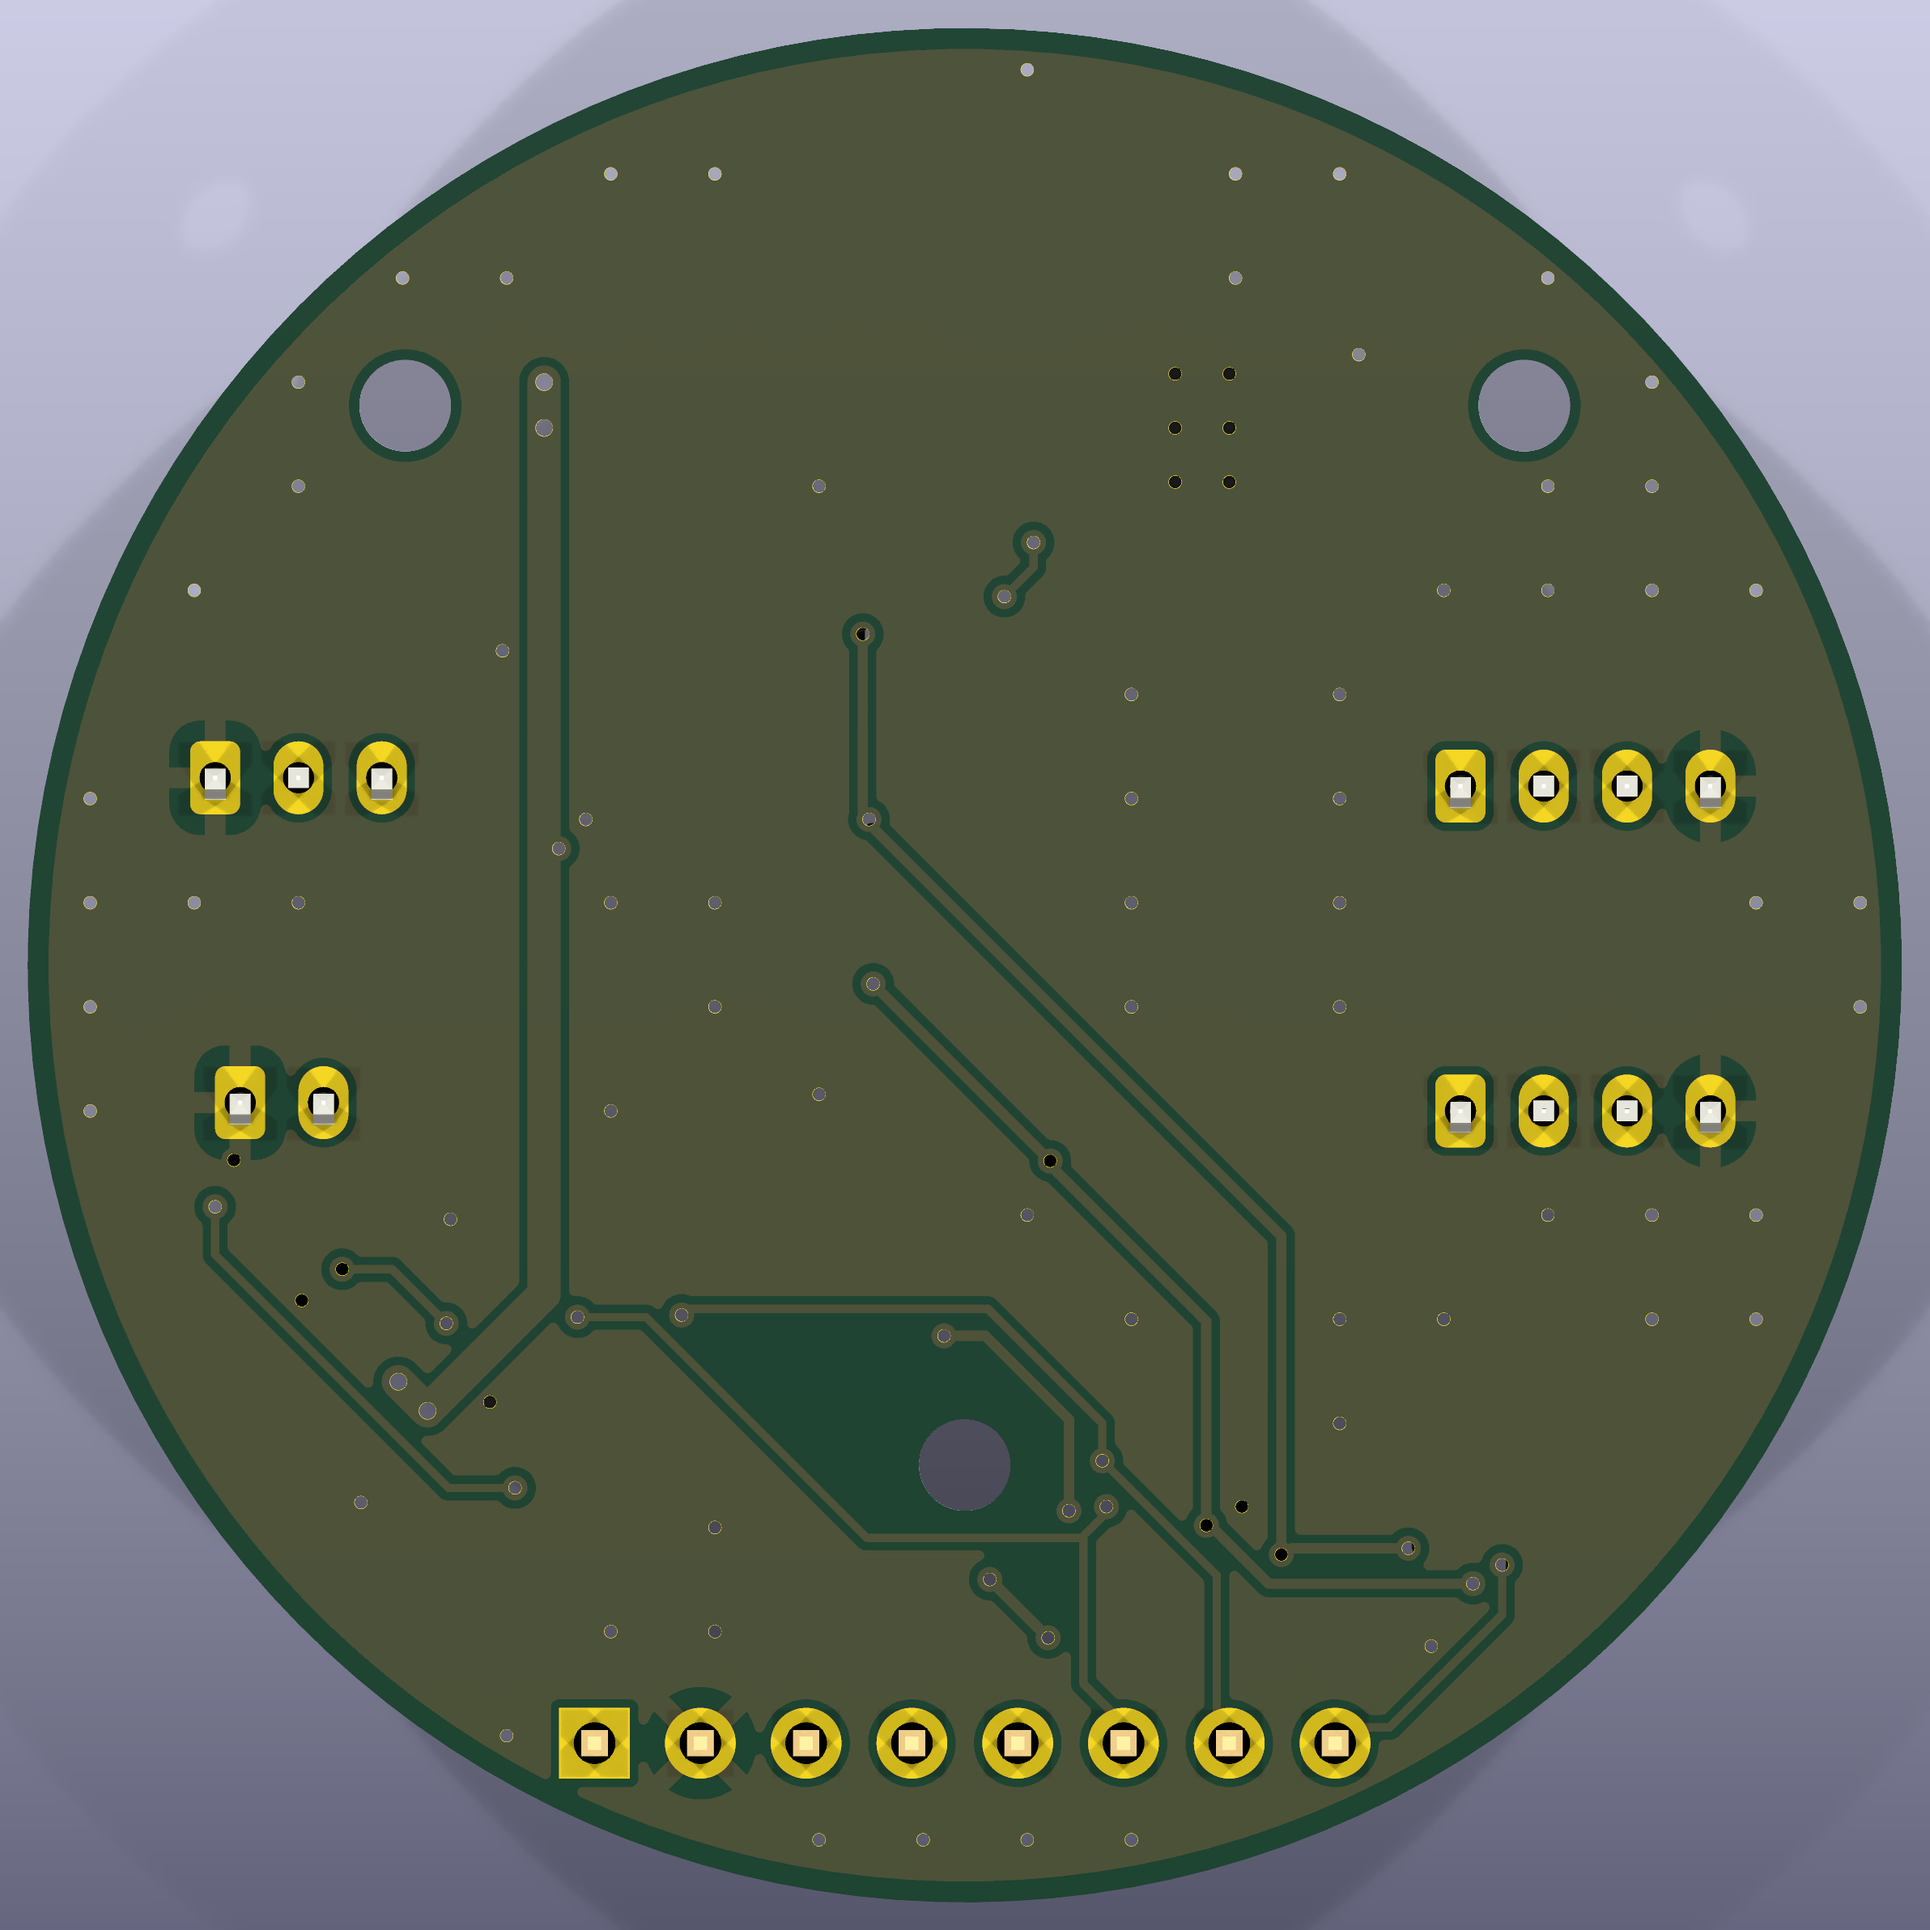
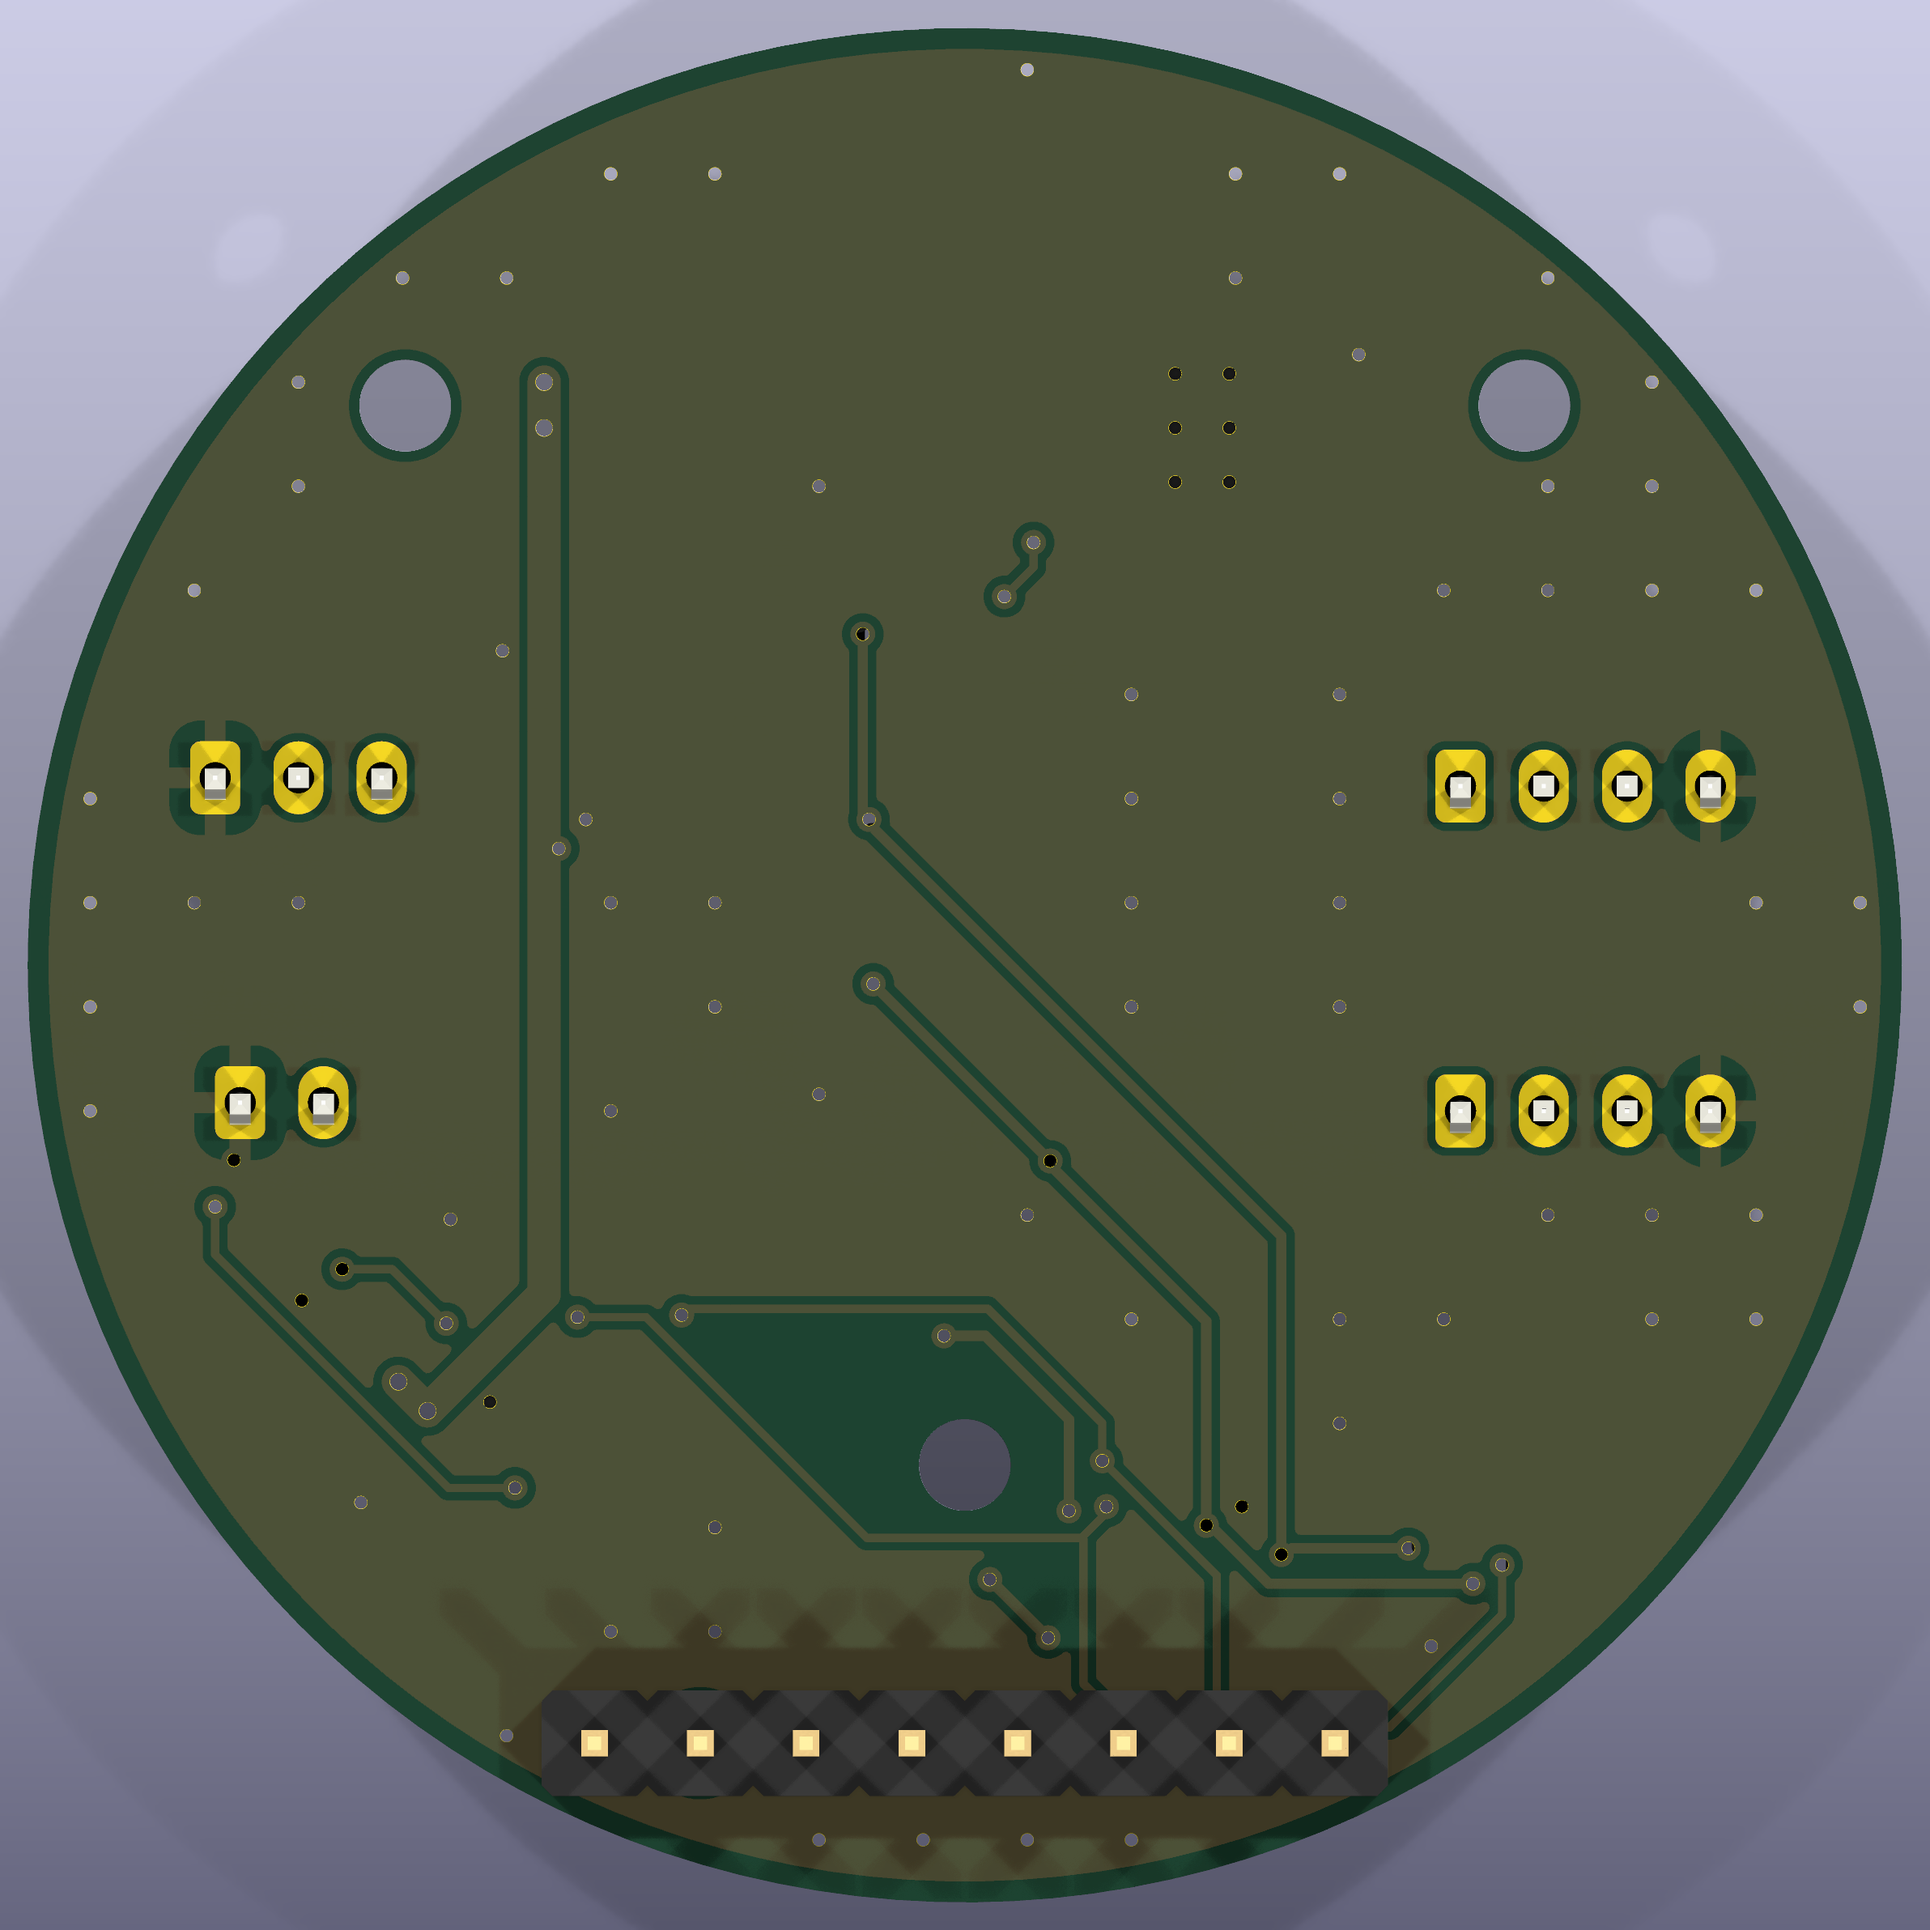
Show the ESP32 header on the underside of the rear board
J6 is soldered from below with its body under the board. Flip only its 3D model so the footprint, and with it the pinout, is unchanged. Re-render the views and add an underside iso.

Changed region(s): [[0.2483, 0.8381, 0.745, 0.9622]]

diff --git a/docs/rear-pcb.md b/docs/rear-pcb.md
@@ -273,7 +273,10 @@ Layout priorities:
 
 KiCad 10 renders of the layout as of 2026-11-03 (`kicad-cli pcb render --quality high --floor`):
 [iso](rear-pcb/render-iso.png), [top](rear-pcb/render-top.png),
-[bottom](rear-pcb/render-bottom.png). L1 renders as bare pads because KiCad has no model for the
+[bottom](rear-pcb/render-bottom.png), [underside iso](rear-pcb/render-iso-bottom.png). J6, the
+8-pin header, is soldered from the underside with its body below the board, so its footprint stays
+on F.Cu (the pinout is correct as placed) and only its 3D model is flipped (offset z −1.6mm,
+rotated 180° about Y). L1 renders as bare pads because KiCad has no model for the
 Bourns SRP7028A. U1 uses the stock `HSOP-8-1EP_3.9x4.9mm_P1.27mm_EP2.41x3.1mm.step`, because the
 stock footprint's own model path names a file that doesn't exist.
 
